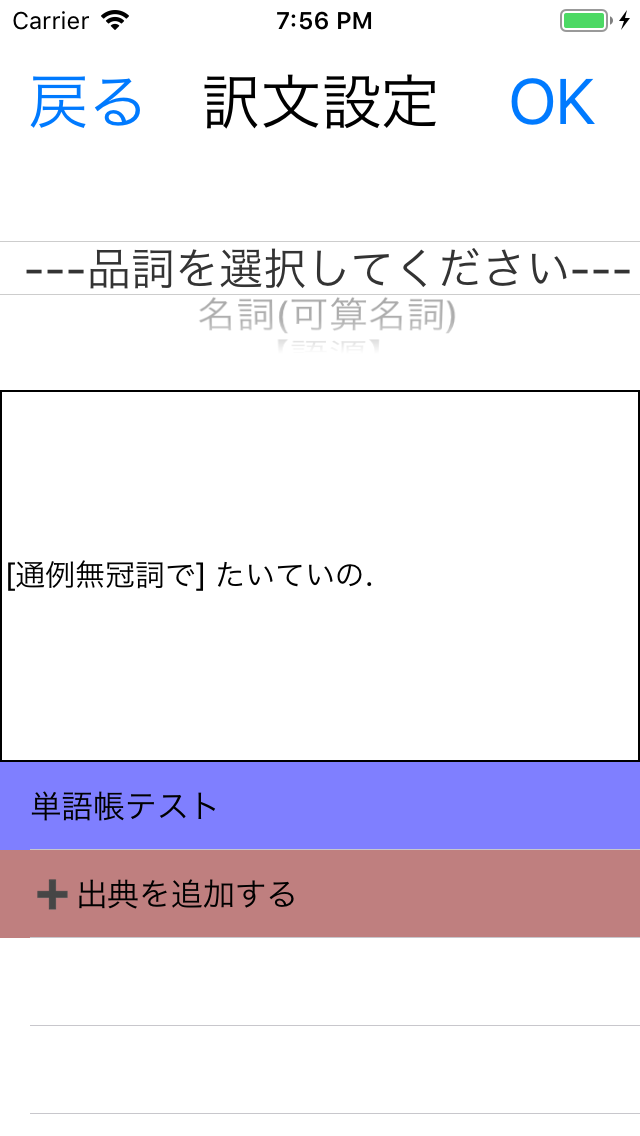
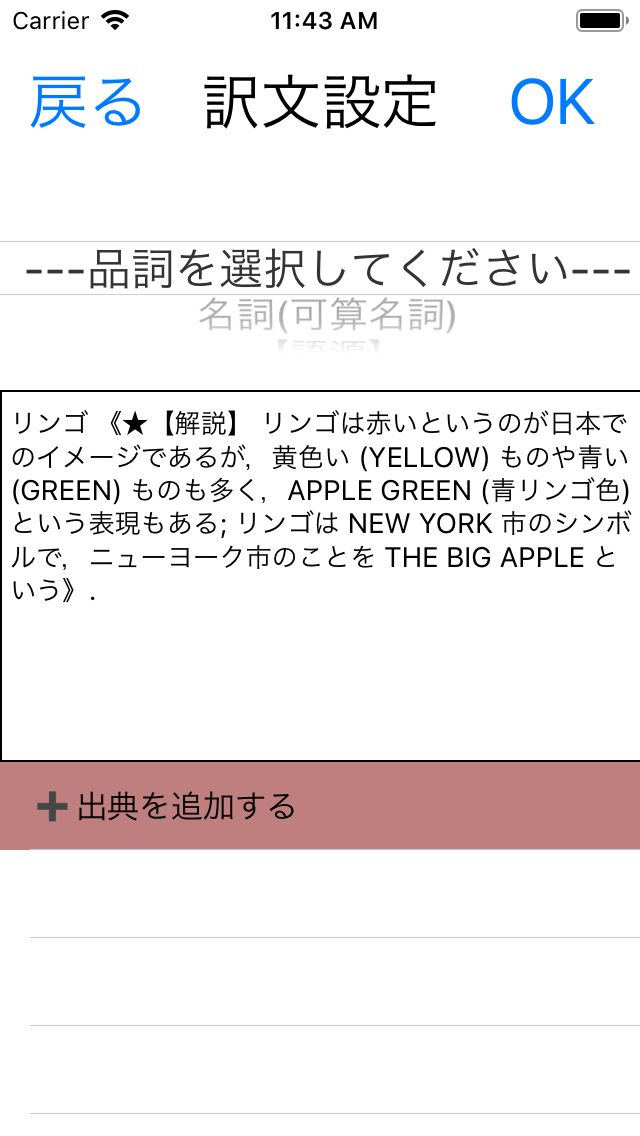
訳文設定画面のtextFieldをtextViewにして訳文を複数行表示できるように変更

diff --git a/EnglishWords/EnglishWords/ConfigureMeanViewController.swift b/EnglishWords/EnglishWords/ConfigureMeanViewController.swift
@@ -20,7 +20,7 @@ class ConfigureMeanViewController:UIViewController,UIPickerViewDelegate,UIPicker
     var wordnote: WordNote?
     
     @IBOutlet var partofspeeches: UIPickerView!
-    @IBOutlet var textField: UITextField!
+    @IBOutlet var textView: UITextView!
     @IBOutlet var sourcetable:UITableView!
     
     let notSelectedPartOfSpeech: String = "---品詞を選択してください---"
@@ -43,10 +43,14 @@ class ConfigureMeanViewController:UIViewController,UIPickerViewDelegate,UIPicker
                                                        "createdDate": Date()]), at: 0)
         selectedpartofspeech = partsofspeechlist[0]
         
-        //テキストフィールドの初期値に登録されてある意味
+        //テキストビューの初期値に登録されてある意味
         if !newMeanFlag! {
-            textField.text = mean?.mean
+            textView.text = mean?.mean
         }
+        
+        //テキストビューの枠線設定
+        textView.layer.borderColor = UIColor.black.cgColor  //色
+        textView.layer.borderWidth = 1.0                    //幅
     }
     
     override func didReceiveMemoryWarning() {
@@ -154,7 +158,7 @@ class ConfigureMeanViewController:UIViewController,UIPickerViewDelegate,UIPicker
                 showAlert(errormessage: "エラー：単語データがありません")
             }else if (selectedpartofspeech?.partsOfSpeechName.isEmpty)! || selectedpartofspeech?.partsOfSpeechName == notSelectedPartOfSpeech {
                 showAlert(errormessage: "品詞が選択されていません")
-            }else if (textField.text?.isEmpty)! {
+            }else if (textView.text?.isEmpty)! {
                 showAlert(errormessage: "訳文が入力されていません")
             }else{
                 let realm: Realm = try! Realm()
@@ -162,7 +166,7 @@ class ConfigureMeanViewController:UIViewController,UIPickerViewDelegate,UIPicker
                     try! realm.write {
                         let newWordData = WordData(value: ["word" : mean?.word!,
                                                                "partofspeech" : selectedpartofspeech!,
-                                                               "mean" : textField.text!])
+                                                               "mean" : textView.text!])
                         realm.add(newWordData)
                         performSegue(withIdentifier: "returnToConfigureWordViewController",sender: nil)
                     }
@@ -173,7 +177,7 @@ class ConfigureMeanViewController:UIViewController,UIPickerViewDelegate,UIPicker
                         let toupdatemean = realm.objects(WordData.self).filter("word == %@",mean?.word! as Any)
                                     .filter("partofspeech == %@",mean?.partofspeech! as Any)[0]
                         toupdatemean.partofspeech = selectedpartofspeech
-                        toupdatemean.mean = textField.text!
+                        toupdatemean.mean = textView.text!
                     }
                     performSegue(withIdentifier: "returnToConfigureWordViewController",sender: nil)
                 }
